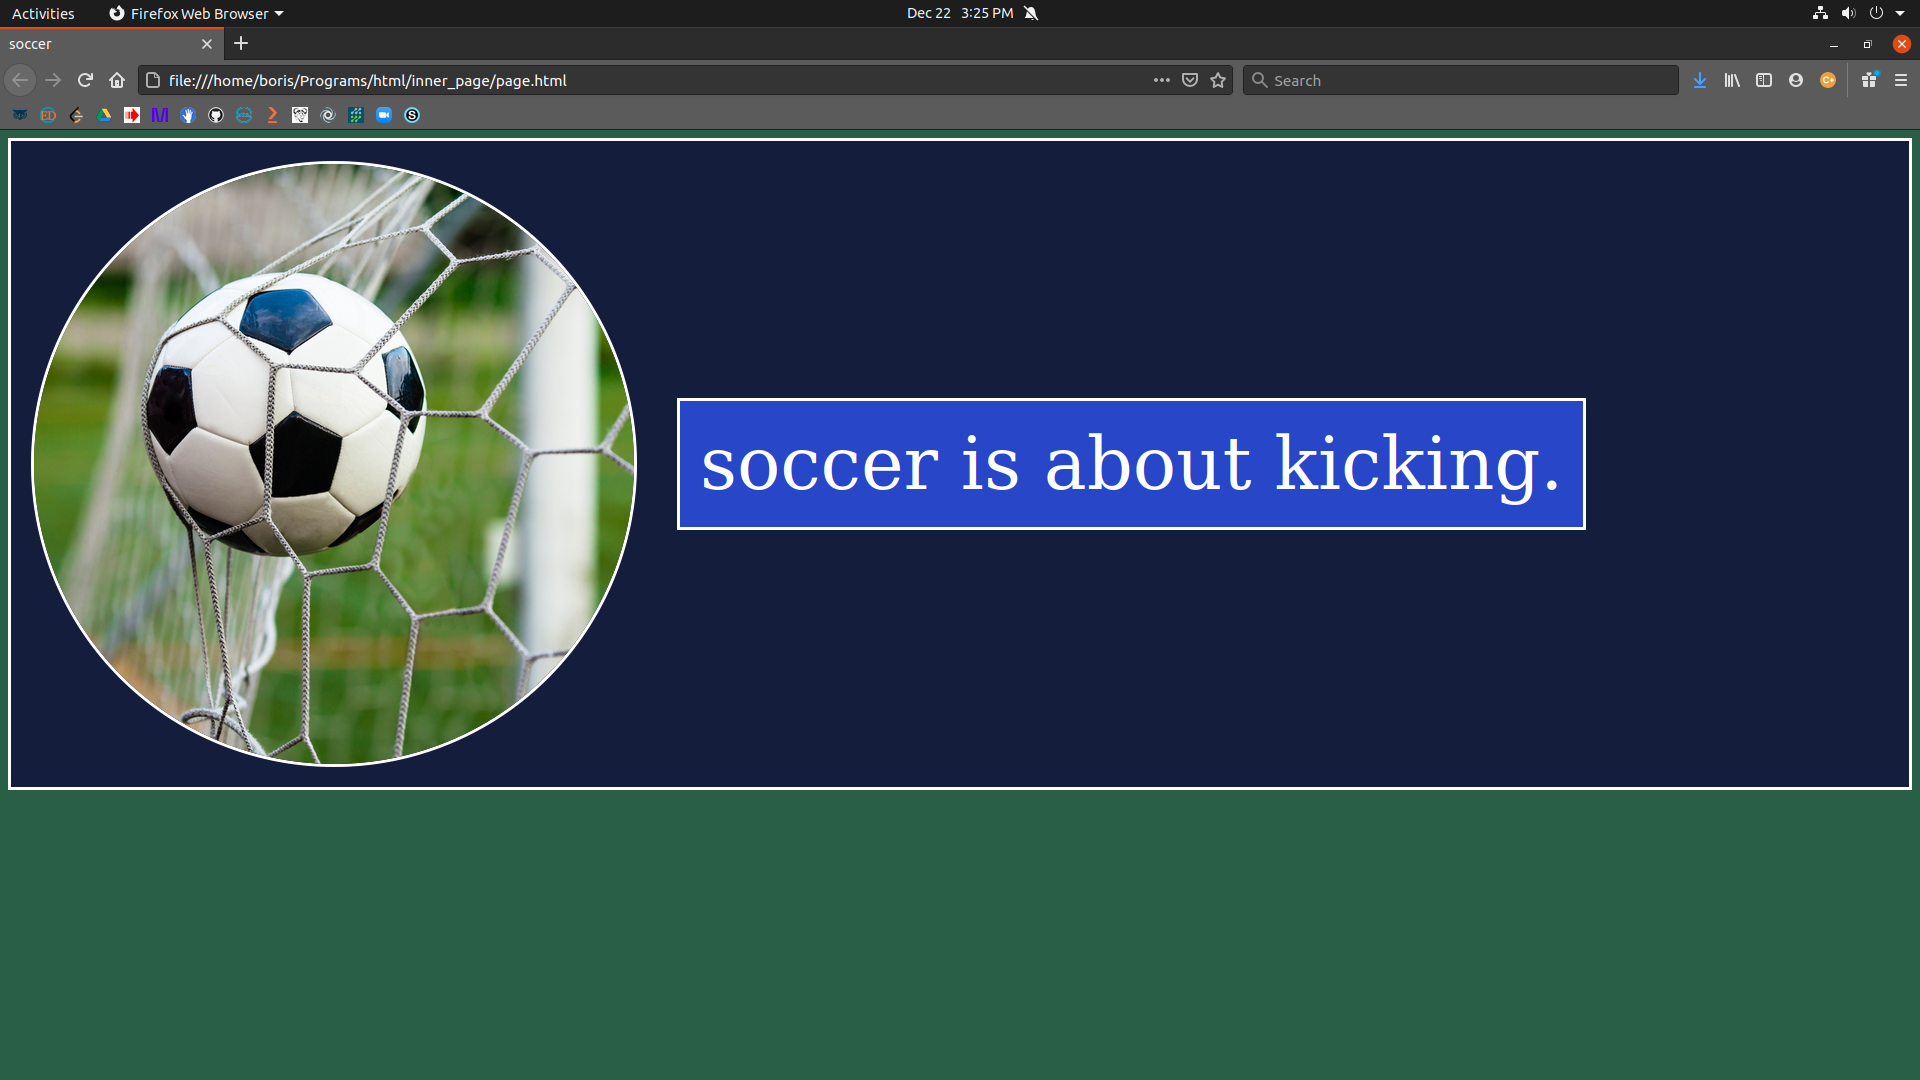
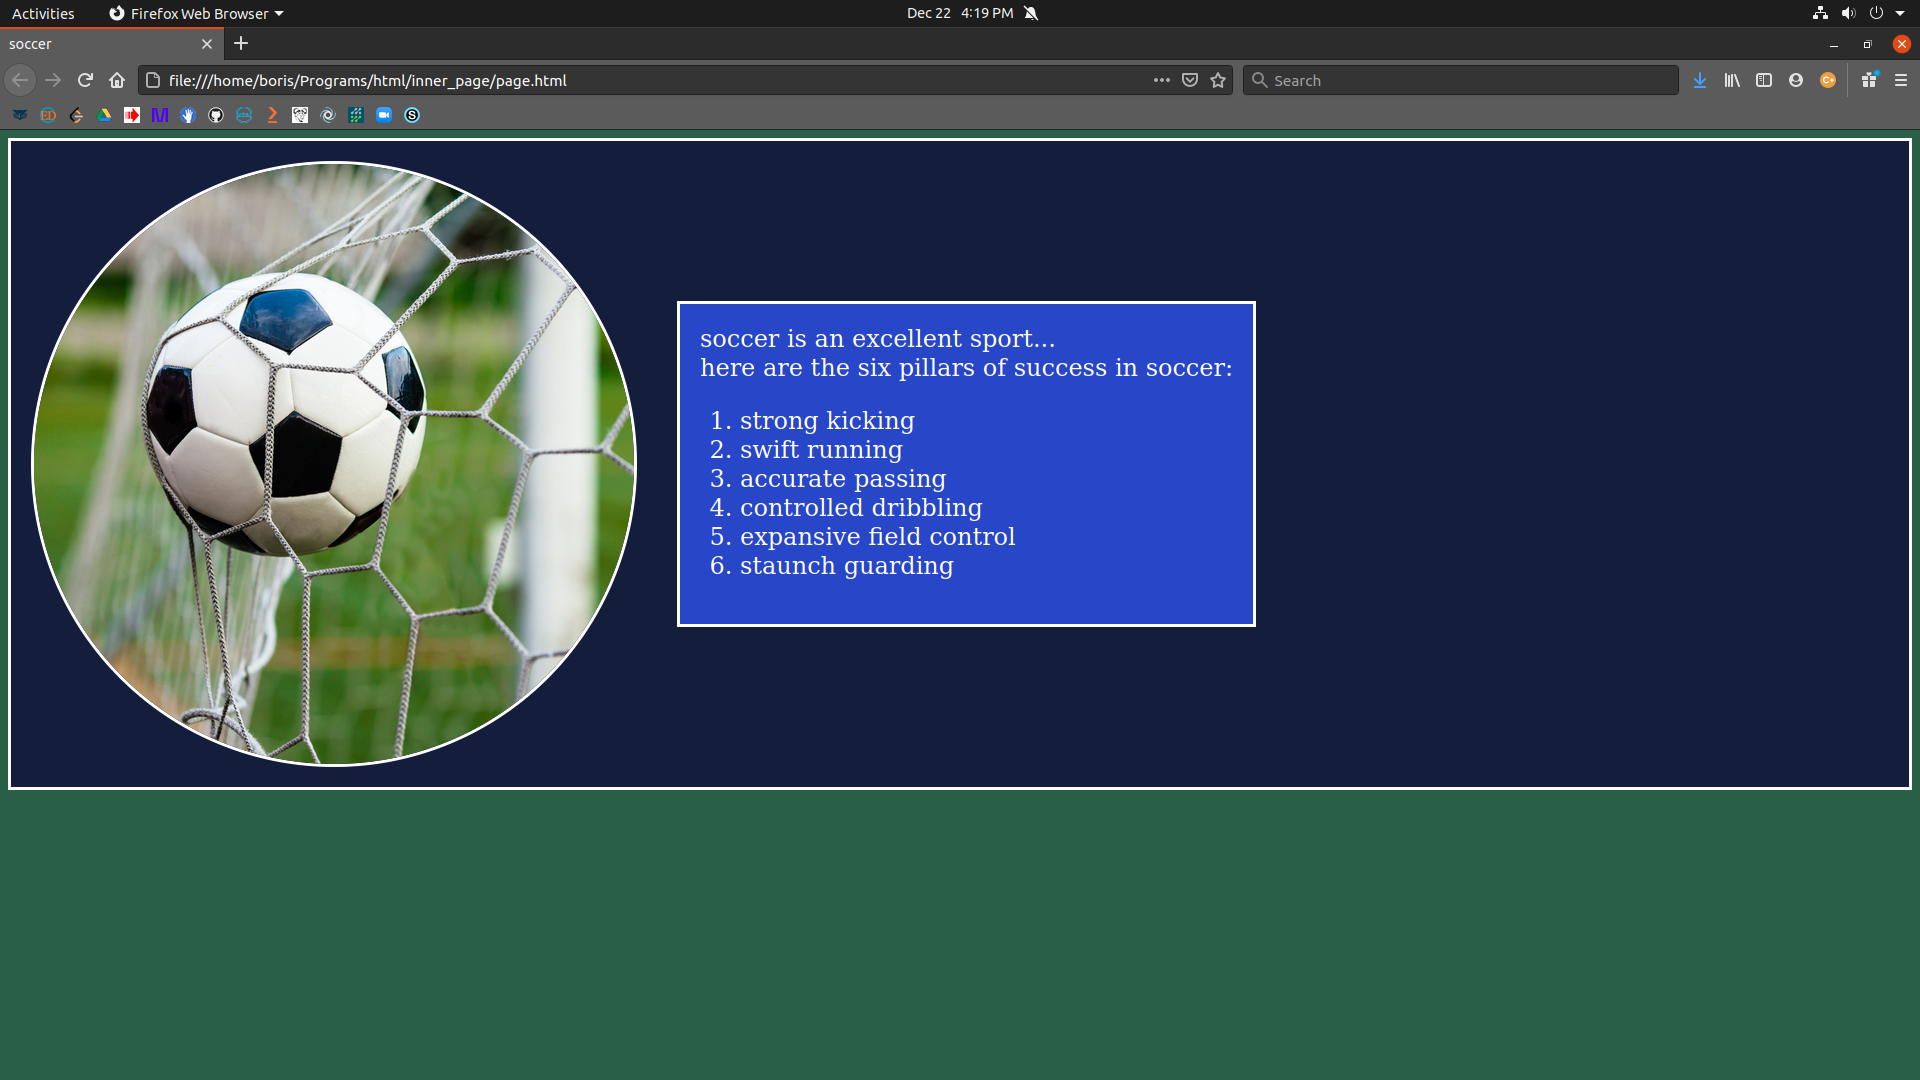
cleaning up

Changed region(s): [[0.3438, 0.275, 0.8438, 0.5806]]

diff --git a/formatted.html b/formatted.html
@@ -13,13 +13,12 @@
 		<img src="image.png">		
 			
 <pre class=notes>
-Here is an example of a page layout using css and html. 
-The html is in the green box, the css is in the teal box.
+Here is an example of a page layout using css and html.
 
 The way the code is written now assumes that you have 
 the following three files in your directory:
-	page.html  		<- containing the html text
-	style.css  		<- containing the css text
+	page.html  		<- containing the html text below
+	style.css  		<- containing the css text below(er)
 	picture.jpg		<- being some picture
 
 These names are not required, but whatever name you choose
@@ -55,10 +54,17 @@ Make it your own!
 		<html_comm>&lt!-- separately and give them different styles and behaviors --&gt</html_comm>
 			<y>&ltimg src="picture.jpg"&gt</y><y>&lt/img&gt</y>
 			<y>&ltdiv class="inner"&gt</y>
-				soccer is about kicking.
+				soccer is an excellent sport...<y>&ltbr&gt</y>
+				here are the six pillars of success in soccer:
+				<y>&ltol&gt</y> <html_comm>&lt!-- starting an ordered list --&gt</html_comm>
+					<y>&ltli&gt</y> strong kicking 		<y>&lt/li&gt</y>
+					<y>&ltli&gt</y> swift running 			<y>&lt/li&gt</y>
+					<y>&ltli&gt</y> accurate passing 		<y>&lt/li&gt</y>
+					<y>&ltli&gt</y> controlled dribbling 	<y>&lt/li&gt</y>
+					<y>&ltli&gt</y> expansive field control<y>&lt/li&gt</y>
+					<y>&ltli&gt</y> staunch guarding   	<y>&lt/li&gt</y>
+				<y>&lt/ol&gt</y>
 			<y>&lt/div&gt</y>
-			<html_comm>&lt!-- normally text is an inline element, but I put it in a div 		 --&gt</html_comm>
-			<html_comm>&lt!-- so that I would be able to float it to the right of the picture --&gt</html_comm>
 		<y>&lt/div&gt</y>
 	<y>&lt/body&gt</y>
 <y>&lt/html&gt</y>
@@ -101,7 +107,7 @@ Make it your own!
 <bl>div.inner {</bl>					<css_comm>/* selects only divs with class'"inner" */</css_comm>
 <css>	padding : 20px;</css>
 <css>	background-color : rgb(40,70,200);</css>
-<css>	font-size : 72px;</css>
+<css>	font-size : 24px;</css>
 <css>	float : left;</css>
 <bl>}</bl>
 <css></css>

diff --git a/inner_page/page.html b/inner_page/page.html
@@ -22,10 +22,17 @@
 		<!-- separately and give them different styles and behaviors -->
 			<img src="picture.jpg"></img>
 			<div class="inner">
-				soccer is about kicking.
+				soccer is an excellent sport...<br>
+				here are the six pillars of success in soccer:
+				<ol> <!-- starting an ordered list -->
+					<li> strong kicking 		</li>
+					<li> swift running 			</li>
+					<li> accurate passing 		</li>
+					<li> controlled dribbling 	</li>
+					<li> expansive field control</li>
+					<li> staunch guarding   	</li>
+				</ol>
 			</div>
-			<!-- normally text is an inline element, but I put it in a div 		 -->
-			<!-- so that I would be able to float it to the right of the picture -->
 		</div>
 	</body>
 </html>

diff --git a/inner_page/style.css b/inner_page/style.css
@@ -35,7 +35,7 @@ div.outer { 				/* selects only divs with class="outer" */
 div.inner {					/* selects only divs with class'"inner" */
 	padding : 20px;
 	background-color : rgb(40,70,200);
-	font-size : 72px;
+	font-size : 24px;
 	float : left;
 }
 
